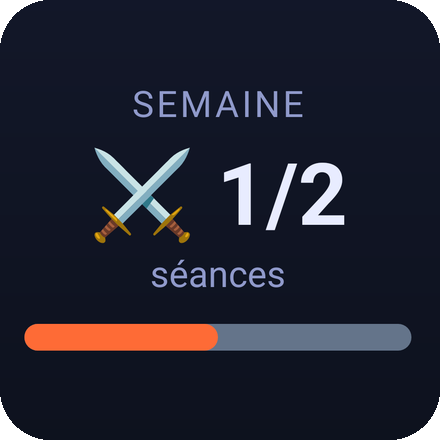
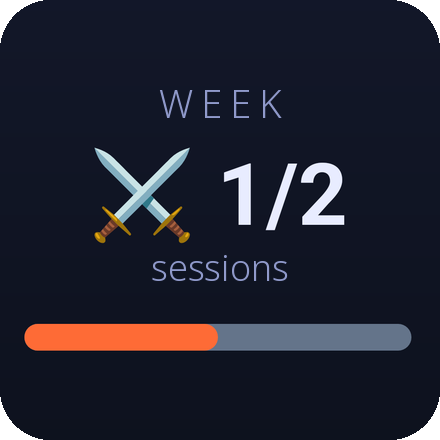
fix(widget): the language reaches the home screen, and the bar survives an unmeasured cell
Three findings from an audit of the widget path, prompted by the F-Droid
review of MR !45076.

A language change never redrew the widgets. They resolve the language
themselves now, but only when something redraws them, and nothing did:
storing the choice left FLAMME on the home screen until the OS's 30-minute
tick or the next cold start. That is the tail of the reviewer's finding 4 —
re-adding the widget was the only cure they found. `setLanguage` pokes them,
the same way a saved session and a sworn oath already do.

The weekly bar could be handed a negative width. `size.width - 48` had no
floor, and the library reads the cell from the widget's options bundle with
`getInt(key, 0)` — a launcher that has not filled it yet reports 0, so the
bar asked Android for -48dp. That is neither MATCH_PARENT nor WRAP_CONTENT,
and the bar simply disappeared.

The language had two writers: the Settings screen called `i18n.changeLanguage`
after `setLanguage`, which already does it. The leftover promise was floating
too; its failure now goes through `reportError` like every other one.

Also: the widget picker previews were static French PNGs, so an English
device read an English label over a FLAMME / jours thumbnail. Same layout,
English text.

Changed region(s): [[0.2955, 0.2068, 0.6795, 0.2659], [0.325, 0.5909, 0.65, 0.65]]

diff --git a/__tests__/store-settings.test.ts b/__tests__/store-settings.test.ts
@@ -13,6 +13,9 @@
 /** What the OS says about reduce-motion. Swapped per test. */
 let deviceReduceMotion: () => Promise<boolean> = () => Promise.resolve(false);
 
+const requestWidgetsUpdate = jest.fn<Promise<void>, []>();
+const reportError = jest.fn();
+
 const prefs = {
   getLanguage: jest.fn<Promise<string | null>, []>(),
   getAvatarId: jest.fn<Promise<string | null>, []>(),
@@ -30,6 +33,8 @@ beforeAll(() => {
   jest.doMock("@/i18n", () => ({
     i18n: { changeLanguage: jest.fn().mockResolvedValue(undefined) },
   }));
+  jest.doMock("@/src/widget", () => ({ requestWidgetsUpdate }));
+  jest.doMock("@/src/reportError", () => ({ reportError }));
   // The *device* is mocked, not the module that reads it: the store and the home screen
   // widget must both resolve the language through the real `resolveAppLanguage`, and a test
   // that stubs that function out is a test that cannot see them disagree. "fr" so the device
@@ -70,6 +75,7 @@ describe("useSettingsStore", () => {
   beforeEach(() => {
     jest.clearAllMocks();
     deviceReduceMotion = () => Promise.resolve(false);
+    requestWidgetsUpdate.mockResolvedValue(undefined);
     settingsStore().setState({ ...DEFAULTS });
   });
 
@@ -169,5 +175,27 @@ describe("useSettingsStore", () => {
     expect(prefs.setLanguage).toHaveBeenCalledWith("fr");
     expect(prefs.setAvatarId).toHaveBeenCalledWith("scout");
     expect(prefs.setHapticsEnabled).toHaveBeenCalledWith(false);
+  });
+
+  /**
+   * The widgets resolve the language themselves, but only when something redraws them, and the
+   * OS tick is 30 minutes away. Storing the choice without poking them left FLAMME on the home
+   * screen of a hero who had just switched to English — the tail of F-Droid MR !45076 finding 4,
+   * where re-adding the widget was the only cure. Asserts the poke, not the stored string.
+   */
+  test("switching the language redraws the home screen widgets", async () => {
+    await settingsStore().getState().setLanguage("en");
+
+    expect(requestWidgetsUpdate).toHaveBeenCalledTimes(1);
+  });
+
+  test("a widget that refuses to redraw does not fail the language change", async () => {
+    requestWidgetsUpdate.mockRejectedValue(new Error("no launcher"));
+
+    await expect(settingsStore().getState().setLanguage("en")).resolves.toBeUndefined();
+    expect(prefs.setLanguage).toHaveBeenCalledWith("en");
+    // And it is not swallowed: a widget that stops redrawing has to leave a trace somewhere.
+    await Promise.resolve();
+    expect(reportError).toHaveBeenCalledWith("widget.update", expect.any(Error));
   });
 });

diff --git a/src/widget.tsx b/src/widget.tsx
@@ -114,6 +114,17 @@ function FlameWidget({
   );
 }
 
+/**
+ * A bar spanning a full-width panel cell reads as a divider, not a gauge — cap it. The floor
+ * matters more: a launcher that has not filled the widget's options bundle yet reports a size of
+ * 0 (`getAppWidgetOptions().getInt(key, 0)` in the library's RNWidgetUtil), which made this
+ * `-48`, and a negative is neither MATCH_PARENT nor WRAP_CONTENT — the bar vanished. Exported for
+ * the test; the widget declares `minWidth: 110dp`, so a real cell never lands under the floor.
+ */
+export function weeklyBarWidth(size: CellSize, k: number): number {
+  return Math.round(Math.max(Math.min(size.width - 48, 140 * k), 60));
+}
+
 // biome-ignore lint/style/useComponentExportOnlyModules: headless widget task, not a screen
 function WeeklyWidget({
   done,
@@ -132,8 +143,7 @@ function WeeklyWidget({
   const rest = done === null || quota === null ? 1 : Math.max(quota - done, 0);
   // The sworn quota reached is the week's small victory — it pays out in gold.
   const doneColor = filled > 0 && rest === 0 ? GOLD_COLOR : FLAME_COLOR;
-  // A bar spanning a full-width panel cell reads as a divider, not a gauge — cap it.
-  const barWidth = Math.round(Math.min(size.width - 48, 140 * k));
+  const barWidth = weeklyBarWidth(size, k);
   return (
     <FlexWidget clickAction="OPEN_APP" style={ROOT_STYLE}>
       <TextWidget text={s.week} style={titleStyle(k)} />

diff --git a/__tests__/widget.test.ts b/__tests__/widget.test.ts
@@ -113,6 +113,19 @@ describe("src/widget", () => {
     expect(renderedLang(renderWidget)).toBe("fr");
   });
 
+  /**
+   * A launcher that has not filled the widget's options bundle yet reports 0 for both sides —
+   * `RNWidgetUtil.getWidgetSizeInDp` reads it with `getInt(key, 0)`. The weekly bar was
+   * `size.width - 48` with no floor, so that cell handed Android a negative LayoutParams width,
+   * which is neither MATCH_PARENT nor WRAP_CONTENT: the progress bar simply disappeared.
+   */
+  test("the weekly bar keeps a positive width on a cell the launcher has not measured", () => {
+    expect(widget().weeklyBarWidth({ width: 0, height: 0 }, 1)).toBeGreaterThan(0);
+    // And a real cell is still driven by the cell, not by the floor.
+    expect(widget().weeklyBarWidth({ width: 110, height: 110 }, 1)).toBe(62);
+    expect(widget().weeklyBarWidth({ width: 400, height: 200 }, 2)).toBe(280);
+  });
+
   test("a failing migration still resolves and still draws a fallback", async () => {
     ensureMigrations.mockRejectedValueOnce(new Error("database is on fire"));
     const { props, renderWidget } = taskProps("Flame");

diff --git a/stores/settings.ts b/stores/settings.ts
@@ -8,6 +8,8 @@ import {
   getDevicePreferredAppLanguage,
   resolveAppLanguage,
 } from "@/src/i18n/deviceLanguage";
+import { reportError } from "@/src/reportError";
+import { requestWidgetsUpdate } from "@/src/widget";
 
 export type { AppLanguage };
 
@@ -67,6 +69,12 @@ export const useSettingsStore = create<SettingsState>((set) => ({
     i18n.changeLanguage(language).catch(() => {
       // Ignore i18n errors
     });
+    // The widgets resolve the language themselves, but only when they redraw — and nothing
+    // redraws them for up to 30 minutes. Without this poke a hero who switches to English
+    // watches FLAMME sit on the home screen until the next OS tick or cold start, which is
+    // the tail of F-Droid MR !45076 finding 4: re-adding the widget was the only cure.
+    // Non-blocking: never fail a settings write over a widget redraw.
+    requestWidgetsUpdate().catch((e) => reportError("widget.update", e));
   },
 
   setAvatarId: async (avatarId) => {

diff --git a/app/settings.tsx b/app/settings.tsx
@@ -207,7 +207,7 @@ function DevFooter() {
 
 export default function SettingsScreen() {
   const router = useRouter();
-  const { t, i18n } = useTranslation();
+  const { t } = useTranslation();
   const insets = useSafeAreaInsets();
 
   const {
@@ -357,10 +357,10 @@ export default function SettingsScreen() {
     router.push("/oath" as never);
   }, [router]);
 
+  // One writer: the store already swaps i18n and pokes the widgets. Calling
+  // `i18n.changeLanguage` here too was a second one, silently racing the first.
   const toggleLanguage = () => {
-    const newLang = language === "en" ? "fr" : "en";
-    setLanguage(newLang);
-    i18n.changeLanguage(newLang);
+    setLanguage(language === "en" ? "fr" : "en").catch((e) => reportError("settings.language", e));
   };
 
   return (
